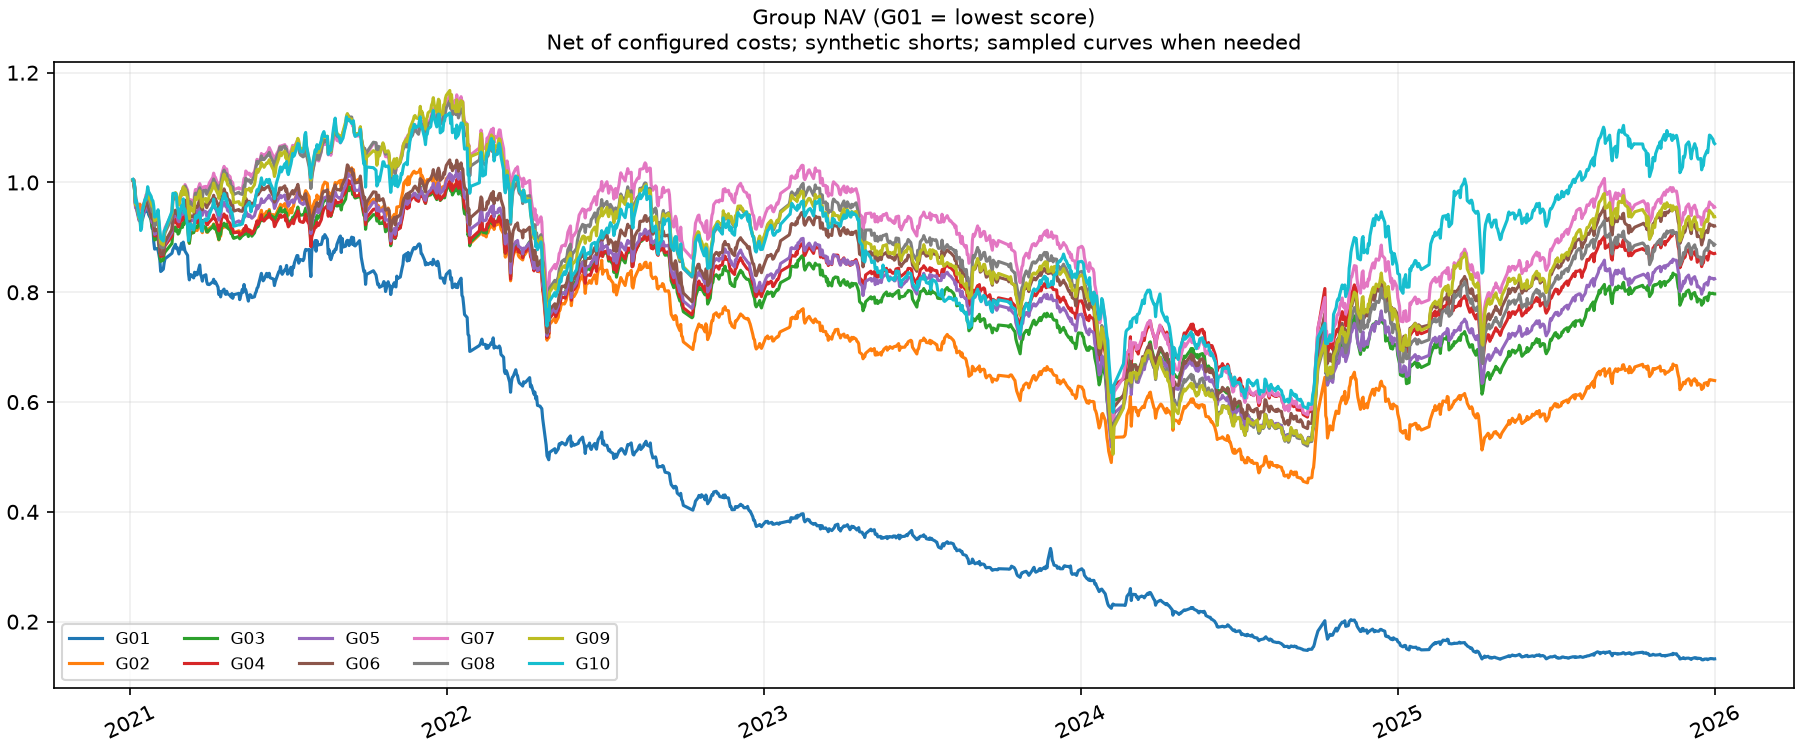
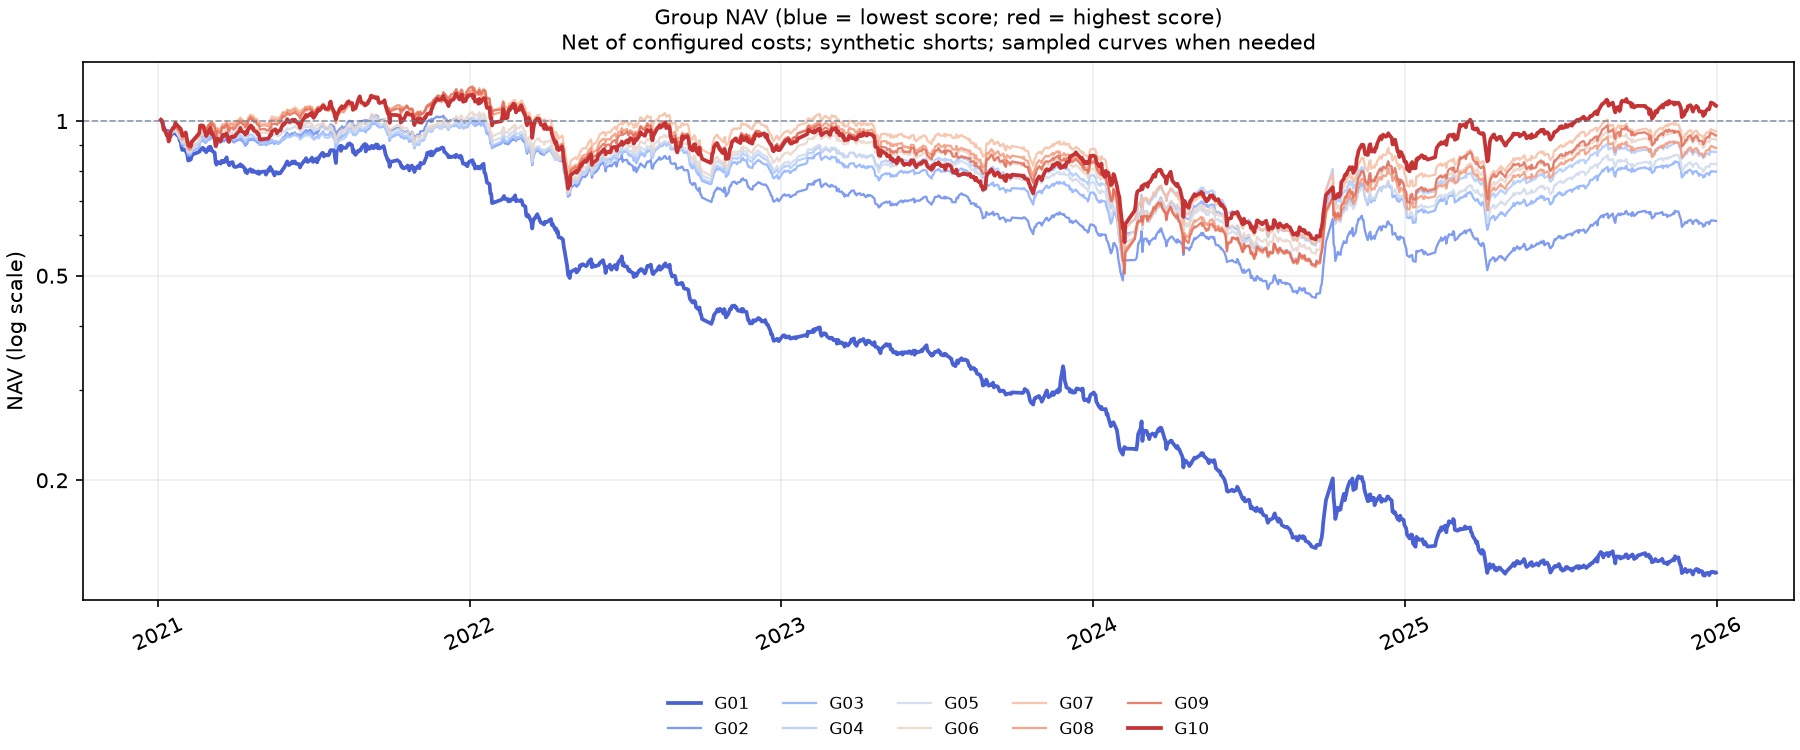
feat: use logarithmic scales for backtest charts

diff --git a/qsim/report.py b/qsim/report.py
@@ -33,7 +33,7 @@ def plot_results(result,directory):
     matplotlib.use('Agg')
     import matplotlib.pyplot as plt
     import matplotlib.dates as mdates
-    from matplotlib.ticker import PercentFormatter
+    from matplotlib.ticker import PercentFormatter, FuncFormatter, LogLocator, NullFormatter
     config=result['config'];limit=config['output']['plot_points']
     summary=result['summary'];groups=summary.loc[summary.period.eq('ALL')&summary.book.str.startswith('G')].sort_values('book')
     curve=sampled(result['daily'],limit,config['backtest']['groups']+3,
@@ -41,6 +41,33 @@ def plot_results(result,directory):
     curve['date']=pd.to_datetime(curve['date'])
     diag=sampled(result['diagnostics'],limit,columns=['timestamp','ic','rank_ic'])
     caption='Net of configured costs; synthetic shorts; sampled curves when needed'
+    colors=plt.get_cmap('coolwarm')(np.linspace(.05,.95,len(groups)))
+    group_colors=dict(zip(groups.book,colors))
+    def nav_axis(ax,values):
+        values=np.asarray(values,dtype=float)
+        if np.any(np.isfinite(values)&(values<=0)):
+            # Preserve exhausted/negative accounts instead of hiding them on log axes.
+            ax.set_yscale('symlog',linthresh=.01)
+            ax.set_ylabel('NAV (symlog; nonpositive values present)')
+        else:
+            ax.set_yscale('log')
+            ax.yaxis.set_major_locator(LogLocator(base=10,subs=(1,2,5)))
+            ax.yaxis.set_minor_formatter(NullFormatter())
+            ax.set_ylabel('NAV (log scale)')
+        ax.yaxis.set_major_formatter(FuncFormatter(lambda value,pos:f'{value:g}'))
+        ax.axhline(1,color='#64748b',lw=.8,ls='--',alpha=.7)
+    def group_bars(ax,values):
+        values=np.asarray(values,dtype=float)
+        ax.set_yscale('symlog',linthresh=.01,linscale=1)
+        bars=ax.bar(np.arange(len(groups)),values,color=colors,width=.72)
+        ax.axhline(0,color='#475569',lw=.9)
+        ax.set_ylabel('Return (symlog; linear within ±1%)')
+        ax.margins(y=.18)
+        for bar,value in zip(bars,values):
+            if np.isfinite(value):
+                ax.annotate(f'{value:+.1%}',(bar.get_x()+bar.get_width()/2,value),
+                            xytext=(0,5 if value>=0 else -5),textcoords='offset points',
+                            ha='center',va='bottom' if value>=0 else 'top',fontsize=8)
     def save(name,title,draw):
         fig,ax=plt.subplots(figsize=(12,5),layout='constrained')
         draw(ax);ax.set_title(title+'\n'+caption,fontsize=10);ax.grid(alpha=.2)
@@ -55,19 +82,24 @@ def plot_results(result,directory):
             ax.yaxis.set_major_formatter(PercentFormatter(1.))
         fig.savefig(directory/name,dpi=150);plt.close(fig)
     ls=curve.loc[curve.book.eq('LS')]
-    save('long_short_nav.png','Long-short NAV (initial = 1)',lambda ax:ax.plot(ls.date,ls.net))
+    def ls_line(ax):
+        ax.plot(ls.date,ls.net,color='#334155',lw=1.6)
+        nav_axis(ax,ls.net)
+    save('long_short_nav.png','Long-short NAV (initial = 1)',ls_line)
     initial=float(ls.previous_equity.iloc[0])
     save('long_short_pnl.png','Long-short cumulative PnL (CNY)',lambda ax:ax.plot(ls.date,ls.equity-initial))
     def group_lines(ax):
         for name,part in curve.loc[curve.book.str.startswith('G')].groupby('book'):
-            ax.plot(part.date,part.net,label=name)
-        ax.legend(ncol=5,fontsize=8)
-    save('group_nav.png','Group NAV (G01 = lowest score)',group_lines)
-    save('group_returns.png','Group cumulative net returns',lambda ax:ax.bar(groups.book,groups['return']))
+            edge=name in (groups.book.iloc[0],groups.book.iloc[-1])
+            ax.plot(part.date,part.net,label=name,color=group_colors[name],lw=1.8 if edge else 1.1,alpha=1 if edge else .85)
+        nav_axis(ax,curve.loc[curve.book.str.startswith('G'),'net'])
+        ax.legend(ncol=5,fontsize=8,loc='upper center',bbox_to_anchor=(.5,-.15),frameon=False)
+    save('group_nav.png','Group NAV (blue = lowest score; red = highest score)',group_lines)
+    save('group_returns.png','Group cumulative net returns (factor-rank order)',lambda ax:group_bars(ax,groups['return']))
     def excess(ax):
         if 'benchmark_daily' in result:
             benchmark=sampled(result['benchmark_daily'],limit,columns=['book','date','net']).sort_values('date')
-            ax.bar(groups.book,groups.net/float(benchmark.net.iloc[-1])-1)
+            group_bars(ax,groups.net/float(benchmark.net.iloc[-1])-1)
         else:
             ax.text(.05,.5,'Benchmark unavailable in legacy memory mode',transform=ax.transAxes)
     save('group_excess_returns.png','Relative return: group NAV / equal-weight eligible-universe NAV - 1',excess)

diff --git a/scripts/replot_readme_log.py b/scripts/replot_readme_log.py
@@ -1,0 +1,84 @@
+"""Replot frozen README results; verify raw plotted values and input hashes."""
+import hashlib
+import json
+import os
+from pathlib import Path
+import resource
+import shutil
+import sys
+from datetime import datetime
+from zoneinfo import ZoneInfo
+
+import numpy as np
+import pandas as pd
+from matplotlib.figure import Figure
+
+sys.path.insert(0,str(Path(__file__).resolve().parents[1]))
+from qsim.report import plot_results
+
+
+def main():
+    repo=Path(__file__).resolve().parents[1]
+    base=Path('/mnt/nas/qinml_cache/qsim')
+    stamp=datetime.now(ZoneInfo('Asia/Shanghai')).strftime('%Y%m%d_%H%M%S_%f')
+    output=base/'result'/f'log_plots_{stamp}'
+    output.mkdir(parents=True,exist_ok=False)
+    sources={
+        'readme_daily_5y':'readme_daily_reversal5_candidate_20261030_135734_607571_82bfa4e9',
+        'readme_30m_l1_4y':'readme_30m_l1_4y_20261030_160015_832678_7a6fb02b',
+    }
+    report=[]
+    for prefix,run_id in sources.items():
+        root=base/'result'/run_id
+        assert (root/'COMPLETE').exists()
+        files=['config.json','summary.json','daily.csv','diagnostics.csv','benchmark_daily.csv']
+        def hashes():
+            return {name:hashlib.sha256((root/name).read_bytes()).hexdigest() for name in files}
+        before=hashes()
+        result={'config':json.loads((root/'config.json').read_text()),
+                'summary':pd.DataFrame(json.loads((root/'summary.json').read_text()))}
+        for name in ['daily','diagnostics','benchmark_daily']:
+            result[name]=pd.read_csv(root/(name+'.csv'))
+        result['diagnostics']['timestamp']=pd.to_datetime(result['diagnostics']['timestamp'])
+        groups=result['summary'].loc[lambda f:f.period.eq('ALL')&f.book.str.startswith('G')].sort_values('book')
+        target=output/prefix
+        target.mkdir()
+        original=Figure.savefig
+        checked=[]
+        def save(fig,path,*args,**kwargs):
+            name=Path(path).name
+            ax=fig.axes[0]
+            if name in ('group_nav.png','long_short_nav.png'):
+                assert ax.get_yscale()=='log'
+                names=groups.book if name=='group_nav.png' else ['LS']
+                for line,book in zip(ax.lines,names):
+                    expected=result['daily'].loc[lambda f:f.book.eq(book)].sort_values('date').net
+                    np.testing.assert_array_equal(line.get_ydata(),expected)
+                checked.append(name)
+            elif name in ('group_returns.png','group_excess_returns.png'):
+                assert ax.get_yscale()=='symlog'
+                expected=groups['return'] if name=='group_returns.png' else groups.net/result['benchmark_daily'].sort_values('date').net.iloc[-1]-1
+                np.testing.assert_array_equal([bar.get_height() for bar in ax.patches],expected)
+                assert [tick.get_text() for tick in ax.get_xticklabels()]==groups.book.tolist()
+                checked.append(name)
+            return original(fig,path,*args,**kwargs)
+        Figure.savefig=save
+        try:
+            plot_results(result,target)
+        finally:
+            Figure.savefig=original
+        assert before==hashes()
+        assert len(checked)==4
+        for name in checked:
+            destination=repo/'document/assets'/f'{prefix}_{name}'
+            if destination.exists() and destination.stat().st_uid!=os.getuid():
+                raise PermissionError(f'Unexpected asset owner: {destination}')
+            shutil.copy2(target/name,destination)
+        report.append(dict(source=str(root),plots=str(target),inputs_sha256=before,checked=checked,status='PASS'))
+    payload=dict(results=report,peak_rss_kib=resource.getrusage(resource.RUSAGE_SELF).ru_maxrss)
+    (output/'verification.json').write_text(json.dumps(payload,indent=2))
+    print(json.dumps(dict(output=str(output),peak_rss_kib=payload['peak_rss_kib'],status='PASS')))
+
+
+if __name__=='__main__':
+    main()

diff --git a/document/OUTPUTS.md b/document/OUTPUTS.md
@@ -180,15 +180,17 @@ Python run() 返回的小汇总是 DataFrame，大明细默认是 DiskTable。`.
 
 | 文件 | 用途与口径 |
 |---|---|
-| long_short_nav.png | LS 累计净值，初始为1，已计配置成本 |
+| long_short_nav.png | LS 累计净值，对数纵轴，初始为1，已计配置成本 |
 | long_short_pnl.png | LS 累计金额PnL，单位元，与净值图分开 |
-| group_nav.png | 各分组净值，G01 为最低分组；比较曲线不是把组收益相加 |
-| group_returns.png | 各组全期净收益柱状图，看排序和单调性 |
-| group_excess_returns.png | `组净值 / 等权基准净值 − 1`，不是两个收益率直接相减 |
+| group_nav.png | 各分组净值，对数纵轴；蓝色G01最低分、红色最高组最高分 |
+| group_returns.png | 各组全期净收益柱状图，对称对数纵轴并标注真实百分比 |
+| group_excess_returns.png | `组净值 / 等权基准净值 − 1`，对称对数纵轴；不是两个收益率直接相减 |
 | ic.png | 每个决策时点的 IC 与 Rank IC，观察方向、稳定性及缺失 |
 | turnover.png | LS 日双边换手率，联系成本理解 |
 
 真实图集见[五年日频与30分钟结果](FIVE_YEAR_EXAMPLES.md)：每种频率分别提供10分组净值、分层收益和超额、多空净值与PnL、IC、换手，不再用短区间三组示例解释分层表现。
+
+柱状图对称对数轴在±1%内为线性，以保留零点和正负收益；超出部分使用对数刻度，柱高不能按线性比例解读。组号顺序不变，不按实现收益排序。净值存在非正值时使用标明原因的对称对数轴，不静默丢弃或截成正值。金额PnL、IC和换手仍使用线性轴。
 
 等权基准与策略使用同一时点具备有限分数的有效证券池、相同执行与费用约束；不是外部指数，也不是分组收益平均。Every 对策略和基准都采用时点等初始资金比较均值。旧内存路径不构造该基准，超额图会注明不可用。
 

diff --git a/document/assets/README.md b/document/assets/README.md
@@ -14,9 +14,10 @@
 
 - 配置：[日频](../../configs/readme_daily_5y.toml)、[30分钟](../../configs/readme_30m_l1_4y.toml)。日频2021–2025年固定5日反转；分钟2022–2025年负向买卖一档不平衡度，均历史全A池、10组。
 - 运行ID：`readme_daily_reversal5_candidate_20261030_135734_607571_82bfa4e9`、`readme_30m_l1_4y_20261030_160015_832678_7a6fb02b`；两者均COMPLETE，分别有1／6套StatsEvery时点策略。完整统计与验证见[长区间示例](../FIVE_YEAR_EXAMPLES.md)。
-- `readme_daily_5y_*.png`、`readme_30m_l1_4y_*.png`中的七张结果图逐字节复制自运行目录，未修改净值或裁剪年份。
+- `readme_daily_5y_*.png`、`readme_30m_l1_4y_*.png`的分组／多空净值、分组收益／超额四张图于2026-10-30从上述冻结结果重绘：净值为对数轴，收益柱为对称对数轴（±1%内线性），统一按组号渐变配色并标注柱值。原运行目录图片保留；其余三张结果图仍逐字节复制自原运行目录。没有修改净值、收益、组别顺序或裁剪年份。
+- 重绘脚本为`scripts/replot_readme_log.py`，新图和逐值／文件哈希核验保存于`/mnt/nas/qinml_cache/qsim/result/log_plots_20261030_182545_477585/`。
 - terminal／terminal_details为同次CLI真实stdout的上／下半摘要排版截图；标题显示可复现的公开配置命令，数值保持原样。原始日志与临时HTML留NAS。
-- 原组合取负后的日频实跑仍亏损，随后固定测试5日反转，保留相同日期／池／费用；最终日频+30.06%，分钟−64.01%，未通过修改曲线制造盈利。
+- 原组合取负后的日频实跑仍亏损，随后固定测试5日反转，保留相同日期／池／费用；当前日频+30.06%，负向分钟−86.67%（原正向−64.01%），展示实际结果。
 - 旧`readme_30m_5y_*.png`及旧价量配置保留为历史材料，当前README不再引用它们。原始运行记录与本次明细见开发交接。
 
 ### 历史短样本素材

diff --git a/README.md b/README.md
@@ -364,6 +364,10 @@ python -m qsim --config configs/readme_30m_l1_4y.toml
 
 分组曲线和柱状图用于观察分层差异与单调性，不要求结果一定单调。组间持仓可能因容量、停牌、T+1等约束偏离当期目标；组别净值不是无成本的前瞻收益均值。示例仍显式允许未知ST，并使用合成空头。
 
+分组与多空净值使用对数纵轴；分组收益和超额柱状图使用对称对数纵轴（±1%以内为线性），保留负值、零点和实际百分比标签。颜色按因子排名从蓝色G01渐变到红色G10，始终按组号排列，不按回测收益重排。坐标变换不改变收益或组间排序；若净值出现非正值，改用明确标注的对称对数轴保留该记录。
+
+默认 `execution.fee_bps=5.0`，买卖各按实际成交额收取0.05%；卖方附加费、滑点和年化借券费默认均为0。零费用可用于单独的因子研究对照，应明确标注并重新回测；本页主结果保留配置费用。
+
 **日频：年度／全期收益、回撤日期与胜率**
 
 ![五年日频真实终端摘要](document/assets/readme_daily_5y_terminal.png)

diff --git a/document/FIVE_YEAR_EXAMPLES.md b/document/FIVE_YEAR_EXAMPLES.md
@@ -41,6 +41,8 @@ python -m qsim --config configs/readme_30m_l1_4y.toml
 
 ## 实际结果
 
+净值图采用对数纵轴，分组收益与超额柱状图采用对称对数纵轴（±1%内线性）及真实百分比标签。颜色按G01→G10从蓝到红，组号顺序和原始数值保持不变；这些展示调整没有改变账户或费用。
+
 日频为2021-01-04至2025-12-31，共1212日；分钟为2022-01-04至2025-12-31，共969日。固定证券轴均为5939，每天实际可用池随生命周期、状态和信号有效性变化。日频最少有效信号数为4106。
 
 分钟特征有16个缺失源日期，另外2023-12-08的13:30时点没有有效快照；这些共97个信号时点明确保留缺失，未前向填充旧盘口。末尾30条标签尚未到期，共5687条有效IC。已有持仓按无新信号规则推进，缺因子不等于强制清仓。
